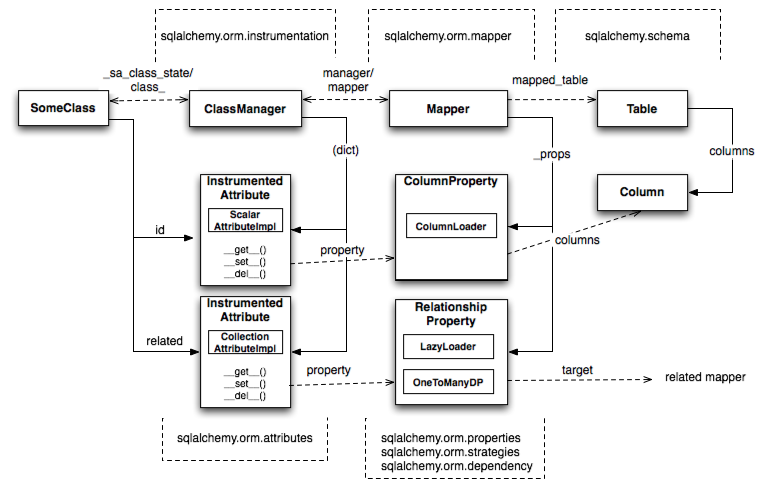
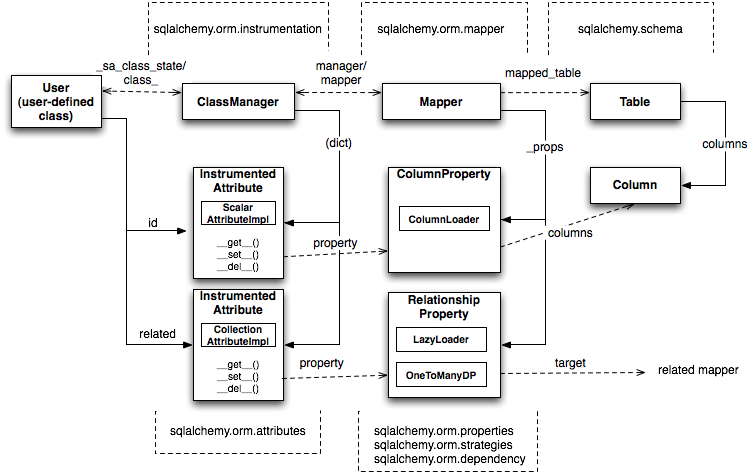
edits for greg
git-svn-id: http://www.aosabook.org/svn/volume2@518 dd5aa6cc-de63-413d-92ad-03a14aac4e6a

diff --git a/raw/sqlalchemy/sqlalchemy.rst b/raw/sqlalchemy/sqlalchemy.rst
@@ -2,26 +2,27 @@
 Introduction
 ============
 
-SQLAlchemy is a database toolkit and object-relational mapping (ORM) system for
-the Python programming language, first introduced in 2005. From
-the beginning, it has sought to provide an end-to-end system for
-working with relational databases in Python, using
-the Python Database API (DBAPI) for database
-interactivity.  SQLAlchemy's early use of the "unit of work" pattern as
-well as its capability to fluently map SQL queries to objects in
-an open-ended way attracted a lot of attention to the earliest
-releases.
+SQLAlchemy is a database toolkit and object-relational mapping (ORM) system
+for the Python programming language, first introduced in 2005. From the
+beginning, it has sought to provide an end-to-end system for working with
+relational databases in Python, using the Python Database API (DBAPI) for
+database interactivity. SQLAlchemy's capabilities attracted a lot of attention
+even in its earliest releases, including its fluency regarding complex SQL
+queries and object mappings, as well as its implementation of the "unit of
+work" pattern, which provides for a highly automated system of persisting data
+to a database.
 
 Starting from a small, roughly implemented concept, SQLAlchemy quickly
 progressed through a series of transformations and reworkings, turning over
 new iterations of its internal architectures as well as its public API, as the
-userbase continued to grow. By version 0.5, SQLAlchemy had begun to assume a
-stable form that was already proving itself in a wide variety of production
-deployments. Throughout 0.6 and 0.7, architectural and API enhancements
-continued the process of producing the most efficient and stable library
-possible. As of this writing, SQLAlchemy is used by a large number of
-organizations in a variety of fields, and is considered by many to be the de
-facto standard for working with relational databases in Python.
+userbase continued to grow. By the time version 0.5 was introduced in January
+of 2009, SQLAlchemy had begun to assume a stable form that was already proving
+itself in a wide variety of production deployments. Throughout 0.6 (April,
+2010) and 0.7 (May, 2011), architectural and API enhancements continued the
+process of producing the most efficient and stable library possible. As of
+this writing, SQLAlchemy is used by a large number of organizations in a
+variety of fields, and is considered by many to be the de facto standard for
+working with relational databases in Python.
 
 The Challenge of Database Abstraction
 =====================================
@@ -59,8 +60,8 @@ SQLAlchemy's Approach to Database Abstraction
 SQLAlchemy takes the position that the developer must be willing to consider
 the relational form of his or her data. A system which pre-determines and
 conceals schema and query design decisions marginalizes the usefulness of
-using a relational database, leading to all the classic problems of "impedance
-mismatch".
+using a relational database, leading to all the classic problems of impedance
+mismatch.
 
 At the same time, the implementation of these decisions can and should be
 executed through high level patterns as much as possible. Relating an object
@@ -84,38 +85,39 @@ The Core / ORM Dichotomy
 
 Central to SQLAlchemy's goal of providing a toolkit approach is that it
 exposes every layer of database interaction as a rich API, dividing the task
-into two main categories, known as *Core* and *ORM*. The Core includes DBAPI
-interaction, SQL rendering, and schema management, all of which are public
+into two main categories, known as *Core* and *ORM*. The Core includes Python
+Database API (DBAPI) interaction, rendering of textual SQL statements
+understood by the database, and schema management, all of which are public
 APIs of their own. The ORM, or object-relational mapper, is then a specific
 library built on top of the Core. The ORM provided with SQLAlchemy is only one
 of any number of possible object abstraction layers that could be built upon
-the Core.
+the Core - many developers and organizations build their applications on top
+of the Core directly.
 
 .. figure:: fig_layers.png
 
    SQLAlchemy Layer Diagram
 
-The Core/ORM separation has always been SQLAlchemy's most
-defining feature, and it has both pros and cons. An ORM built without an
-explicit "core" might have a SQL query construct that renders
-directly to a string, relates the columns selected in the string
-directly to attributes on a user-defined class to be mapped, then
-populates data directly from the DBAPI cursor's result rows
-straight to an instance of that class. SQLAlchemy's ORM, on the
-other hand, relates ORM-enabled class attributes to a separate
-table metadata structure (``Table``), renders the SELECT via a SQL 
-construct (``select()``), and receives DBAPI results through
-a proxying result (``ResultProxy``) before passing data on to the user-defined object.
+The Core/ORM separation has always been SQLAlchemy's most defining feature,
+and it has both pros and cons.   The explicit core present in SQLAlchemy
+means that the ORM relates database-mapped class attributes to a
+structure known as a ``Table``, rather than directly to their string 
+column names as expressed in the database; produces a SELECT query using a
+structure called ``select()``, rather than piecing together object attributes
+directly into a string statement; and receives result rows through a
+facade called ``ResultProxy`` which transparently maps the ``select()`` to each result row, rather than transferring data directly from a database cursor
+to a user-defined object.
 
 While the Core elements may not be visible in a very simple ORM application,
-having it be fully public and fluidly integrated allows an ORM-centric
-application to "move down" a level or two in order to deal with the database
-in a more specific and finely tuned manner, as the situation requires.  As SQLAlchemy has matured, 
-the Core API has become less explicit in regular use as the ORM continues to
-provide more sophisticated and comprehensive patterns.  However,
+having a fully public Core API, carefully integrated to allow fluid
+movement between ORM and Core constructs, allows an ORM-centric application to
+"move down" a level or two in order to deal with the database in a more
+specific and finely tuned manner, as the situation requires. As SQLAlchemy has
+matured, the Core API has become less explicit in regular use as the ORM
+continues to provide more sophisticated and comprehensive patterns. However,
 the availability of the Core was also a contributor to SQLAlchemy's early
-success, as it allowed early users to accomplish much more 
-than would have been possible when the ORM was still being developed.
+success, as it allowed early users to accomplish much more than would have
+been possible when the ORM was still being developed.
 
 The downside to the ORM/Core approach is that instructions must
 travel through more steps.  Python's
@@ -149,8 +151,7 @@ specific DBAPI implementations as well as the underlying database engines.
 The Dialect System
 -------------------
 
-The interface described by the DBAPI is extremely simple. Its core components
-of usage are the DBAPI module itself, the connection object, and the cursor
+The interface described by the DBAPI is extremely simple. Its core components  are the DBAPI module itself, the connection object, and the cursor
 object - a "cursor" in database parlance represents the context of a
 particular statement and its associated results.  A simple interaction with these
 objects to connect and retrieve data from a database is as follows::
@@ -192,8 +193,8 @@ The result returned by the ``execute()`` method of ``Engine``
 or ``Connection`` is called a ``ResultProxy``, which offers
 an interface similar to the DBAPI cursor but with richer
 behavior.   The ``Engine``,
-``Connection``, and ``ResultProxy`` can be thought of as
-corresponding to the DBAPI module, an instance of a specific 
+``Connection``, and ``ResultProxy`` correspond to 
+the DBAPI module, an instance of a specific 
 DBAPI connection, and an instance of a specific DBAPI 
 cursor, respectively.
 
@@ -231,7 +232,7 @@ first we'll consider the scope of the problem. The DBAPI
 specification, currently at version two, is written as a series of
 API definitions which allow for a wide degree of variability in
 behavior, as well as a good number of undefined areas.  As a result, real-life 
-DBAPIs nclude a great degree of variability
+DBAPIs include a great degree of variability
 in several areas, including when Python
 unicode strings are acceptable and when they are not; how the 
 "last inserted id", that is an autogenerated primary key, may be
@@ -301,7 +302,7 @@ means the schema description system is just as useful for any other kind of
 object-relational system which may be built on the Core.
 
 The ``Table`` and ``Column`` model falls under the scope of what's
-called "metadata", offering a collection object called ``MetaData`` to represent
+called *metadata*, offering a collection object called ``MetaData`` to represent
 a collection of ``Table`` objects.  The structure here is derived
 mostly from Martin Fowler's description of "Metadata Mapping" in 
 *Patterns of Enterprise Application Architecture*.  Figure 4 illustrates
@@ -487,13 +488,13 @@ individually-defined entities which are joined together via a function called
 ``mapper()``. Once ``mapper()`` has been applied to a user defined class, the
 class takes on new attributes that correspond to columns in the table::
 
-    class SomeClass(object):
+    class User(object):
         pass
 
-    mapper(SomeClass, some_table)
+    mapper(User, user_table)
 
-    # now SomeClass has an ".id" attribute
-    SomeClass.id
+    # now User has an ".id" attribute
+    User.id
 
 ``mapper()`` can also affix other kinds of attributes to the class, including
 attributes which correspond to references to other kinds of objects, as well
@@ -502,16 +503,17 @@ a class is known in the Python world as "monkeypatching", however since we are
 doing it in a data-driven and non-arbitrary way, the spirit of the operation is
 better expressed via the term "class instrumentation".
 
-Modern usage of SQLAlchemy centers around usage of the Declarative extension, which
-is a configurational system that resembles the common "active-record"-like class
-declaration system used by many other object-relational tools.   In this system,
-the end user explicitly defines attributes inline with the class definition,
-each representing an attribute on the class that is to be mapped.   The ``Table``
-object in most cases is not mentioned explicitly, nor is the ``mapper()`` function;
-only the class, the ``Column`` objects, and other ORM-related attributes are named::
+Modern usage of SQLAlchemy centers around the Declarative extension,
+which is a configurational system that resembles the common
+"active-record"-like class declaration system used by many other
+object-relational tools. In this system, the end user explicitly defines
+attributes inline with the class definition, each representing an attribute on
+the class that is to be mapped. The ``Table`` object in most cases is not
+mentioned explicitly, nor is the ``mapper()`` function; only the class, the
+``Column`` objects, and other ORM-related attributes are named::
 
-    class SomeClass(Base):
-        __tablename__ = 'some_table'
+    class User(Base):
+        __tablename__ = 'user'
         id = Column(Integer, primary_key=True)        
 
 It may appear above that the class instrumentation is being achieved directly
@@ -522,8 +524,8 @@ object from what's been declared, and to pass it to the ``mapper()`` function al
 the class.  The ``mapper()`` function then does its job in exactly the same way, 
 patching its own attributes onto the class, in this case towards the ``id`` attribute, 
 replacing what was there previously.  By the time the metaclass initialization is complete
-(that is, when the flow of execution leaves the block delineated by ``SomeClass``), the 
-``Column()`` object marked by ``id`` has been moved into a new ``Table``, and ``SomeClass.id``
+(that is, when the flow of execution leaves the block delineated by ``User``), the 
+``Column()`` object marked by ``id`` has been moved into a new ``Table``, and ``User.id``
 has been replaced by a new attribute, specific to the mapping.
 
 It was always intended that SQLAlchemy would have a
@@ -536,21 +538,34 @@ approach by establishing a system that preserved SQLAlchemy classical mapping co
 exactly, only reorganizing how they are used to be less verbose and more amenable to
 class-level extensions than a classical mapping would be.
 
-Whether classical or declarative mapping is used, a mapped class takes on new behaviors
-that allow it to express SQL constructs in terms of its attributes.   SQLAlchemy originally
-followed SQLObject's behavior of using a special attribute, in this case ``.c``, as the source
-of SQL column expressions.   In version 0.4 however, SQLAlchemy moved the functionality into
-the mapped attributes themselves.   This proved to be a great improvement, as it allowed
-the columns present on the class to be *annotated* as originating from an ORM mapping, while
-the columns as present on the original ``Table`` object could be identified as non-ORM mapped.
-It also provided a symmetry between a mapped class, and an instance of that mapped class, such
-that the same named attribute could provide behavior appropriate to the SQL expression or the
-data level based on the parent.
+Whether classical or declarative mapping is used, a mapped class takes on new
+behaviors that allow it to express SQL constructs in terms of its attributes.
+SQLAlchemy originally followed SQLObject's behavior of using a special
+attribute, in this case ``.c``, as the source of SQL column expressions, as in 
+this example::
+
+    result = session.query(User).filter(User.c.username == 'ed').all()
+
+In version 0.4 however, SQLAlchemy moved the functionality into the mapped
+attributes themselves::
+
+    result = session.query(User).filter(User.username == 'ed').all()
+
+This proved to be a great improvement, as it allowed the column-like objects
+present on the class to gain additional class-specific capabilities not
+present on those originating directly from the underlying ``Table`` object. It
+also allowed usage integration between different kinds of class attributes,
+such as those which represent table columns directly, those which represent
+SQL expressions derived from those columns, and those which represent a
+linkage to a related class. Finally, it provided a symmetry between a mapped
+class, and an instance of that mapped class, such that the same named
+attribute could provide behavior appropriate to the SQL expression or the data
+level, based on whether the parent itself were a class or an instance.
 
 Anatomy of a Mapping
 ---------------------
 
-The ``id`` attribute that's been attached to our ``SomeClass`` class is a type of 
+The ``id`` attribute that's been attached to our ``User`` class is a type of 
 object known in Python as a **descriptor**, an object
 that has a ``__get__()``, ``__set__()``, and ``__del__()`` method, which the Python
 runtime defers to for all class and instance operations involving this attribute.
@@ -559,15 +574,15 @@ and we'll illustrate the world behind this facade with another example.
 Starting with a ``Table`` and a user defined class, we'll set up a mapping that has just one
 mapped column, as well as a ``relationship()``, which defines a reference to a related class::
 
-    some_table = Table("sometable", metadata,
+    user_table = Table("user", metadata,
         Column('id', Integer, primary_key=True),
     )
 
-    class SomeClass(object):
+    class User(object):
         pass
 
-    mapper(SomeClass, some_table, properties={
-        'related':relationship(SomeOtherClass)
+    mapper(User, user_table, properties={
+        'related':relationship(Address)
     })
 
 When the mapping is complete, the structure of objects related to the class is detailed in figure 10.
@@ -586,8 +601,8 @@ is used to distinguish amongst behavioral variances within a particular role.
 Within the realm of class instrumentation, the ``ClassManager`` is linked to the mapped class, while
 its collection of ``InstrumentedAttribute`` objects are linked to each attribute mapped on the class.
 ``InstrumentedAttribute`` is also the public-facing Python descriptor mentioned previously, and
-produces SQL expressions when used in a class-based expression (i.e. ``SomeClass.id==5``).   When 
-dealing with an instance of ``SomeClass``, ``InstrumentedAttribute`` delegates the behavior of the
+produces SQL expressions when used in a class-based expression (i.e. ``User.id==5``).   When 
+dealing with an instance of ``User``, ``InstrumentedAttribute`` delegates the behavior of the
 attribute to an ``AttributeImpl`` object, which is one of several varieties tailored towards the 
 type of data being represented.
 
@@ -633,9 +648,9 @@ transactions on those connections.   Below is a rudimentary usage example::
 
     from sqlalchemy.orm import Session
     session = Session(engine)
-    query = session.query(SomeClass)
+    query = session.query(User)
 
-where above, we create a ``Query`` that will yield instances of ``SomeClass``, relative to a new
+where above, we create a ``Query`` that will yield instances of ``User``, relative to a new
 ``Session`` we've created.  ``Query`` provides a generative builder pattern in the same
 way as the ``select()`` construct discussed previously, where additional criteria and 
 modifiers are associated with a statement construct one method call at a time.    
@@ -728,9 +743,10 @@ quickly ran into a wall at nearly top speed. Users new to modern SQLAlchemy
 will sometimes lament the need to define a factory and possibly a registry for
 ``Session`` objects, as well as the need to keep their objects organized into
 just one ``Session`` at a time and to be aware of threads - but this is far
-preferable to the early days when the entire system was 100% implicit.  In any
-case, the early system can be recreated entirely as a specialization of the
-current API.
+preferable to the early days when the entire system was 100% implicit. The
+convenience of the 0.1 usage pattern is still largely present in modern
+SQLAlchemy, which features a session registry that's normally configured to
+use thread local scoping.
 
 The ``Session`` itself was only introduced in version 0.2 of SQLAlchemy,
 modeled loosely after that of Hibernate.   This version featured
@@ -773,15 +789,17 @@ contained stale data post-transaction, with no simple way to load newer data
 without rebuilding the full set of objects already loaded. Early on, it seemed
 that this problem couldn't be reasonably solved, as it wasn't apparent when
 exactly the ``Session`` should consider current state to be stale, and thus
-resulting in an expensive new set of SELECT statements on next access. However, 
-once the ``Session`` moved to an
-"always-in-a-transaction" model, the nature of transaction isolation, i.e.
-that one transaction with a high degree of isolation *can't* see new data until committed or rolled back
-anyway, could be taken into account, and the point of transaction end became
-the natural point of data expiration. Different databases and configurations of course have
-varied levels of transaction isolation, including no transactions at all. 
-Modern SQLAlchemy simply follows along with the configured isolation behavior, instead of trying to
-fight it, producing a smooth and integrated experience.
+resulting in an expensive new set of SELECT statements on next access.
+However, once the ``Session`` moved to an "always-in-a-transaction" model, the
+nature of transaction isolation, i.e. that one transaction with a high degree
+of isolation *can't* see new data until committed or rolled back anyway, could
+be taken into account, and the point of transaction end became the natural
+point of data expiration. Different databases and configurations of course
+have varied levels of transaction isolation, including no transactions at all.
+These modes of usage are entirely acceptable with SQLAlchemy's expiration
+model as well; the developer only needs to be aware that a lower isolation
+level may expose un-isolated changes within a Session if multiple Sessions
+share the same rows, not at all different from what can occur when using two database connections directly.
 
 Session Overview
 ------------------
@@ -926,15 +944,16 @@ occurs, can be populated from a just-executed INSERT statement's result into the
 list of a dependent row that's about to be inserted.   For deletes, the same ordering is used
 in reverse - dependent rows deleted first before those which they are dependent on.
 
-The unit of work features a unique system where
-the topological sort is performed at two different levels, based on the structure of dependencies present.
-The first level organizes persistence steps into buckets based on the
-dependencies between mappers, that is, full "buckets" of objects corresponding to a particular
-class.   The second level breaks up zero or more of these "buckets" into smaller batches, to 
-handle the case of reference cycles or self-referring tables.   Figure 14 illustrates
-the "buckets" generated to insert a set of ``User`` objects, then a set of ``Address`` 
-objects, where an intermediary step copies newly generated ``User`` primary key values
-into the ``user_id`` foreign key column of each ``Address`` object.
+The unit of work features a system where the topological sort is
+performed at two different levels, based on the structure of dependencies
+present. The first level organizes persistence steps into buckets based on the
+dependencies between mappers, that is, full "buckets" of objects corresponding
+to a particular class. The second level breaks up zero or more of these
+"buckets" into smaller batches, to handle the case of reference cycles or
+self-referring tables. Figure 14 illustrates the "buckets" generated to insert
+a set of ``User`` objects, then a set of ``Address`` objects, where an
+intermediary step copies newly generated ``User`` primary key values into the
+``user_id`` foreign key column of each ``Address`` object.
 
 .. figure:: fig_uow_mapper_buckets.png
 
